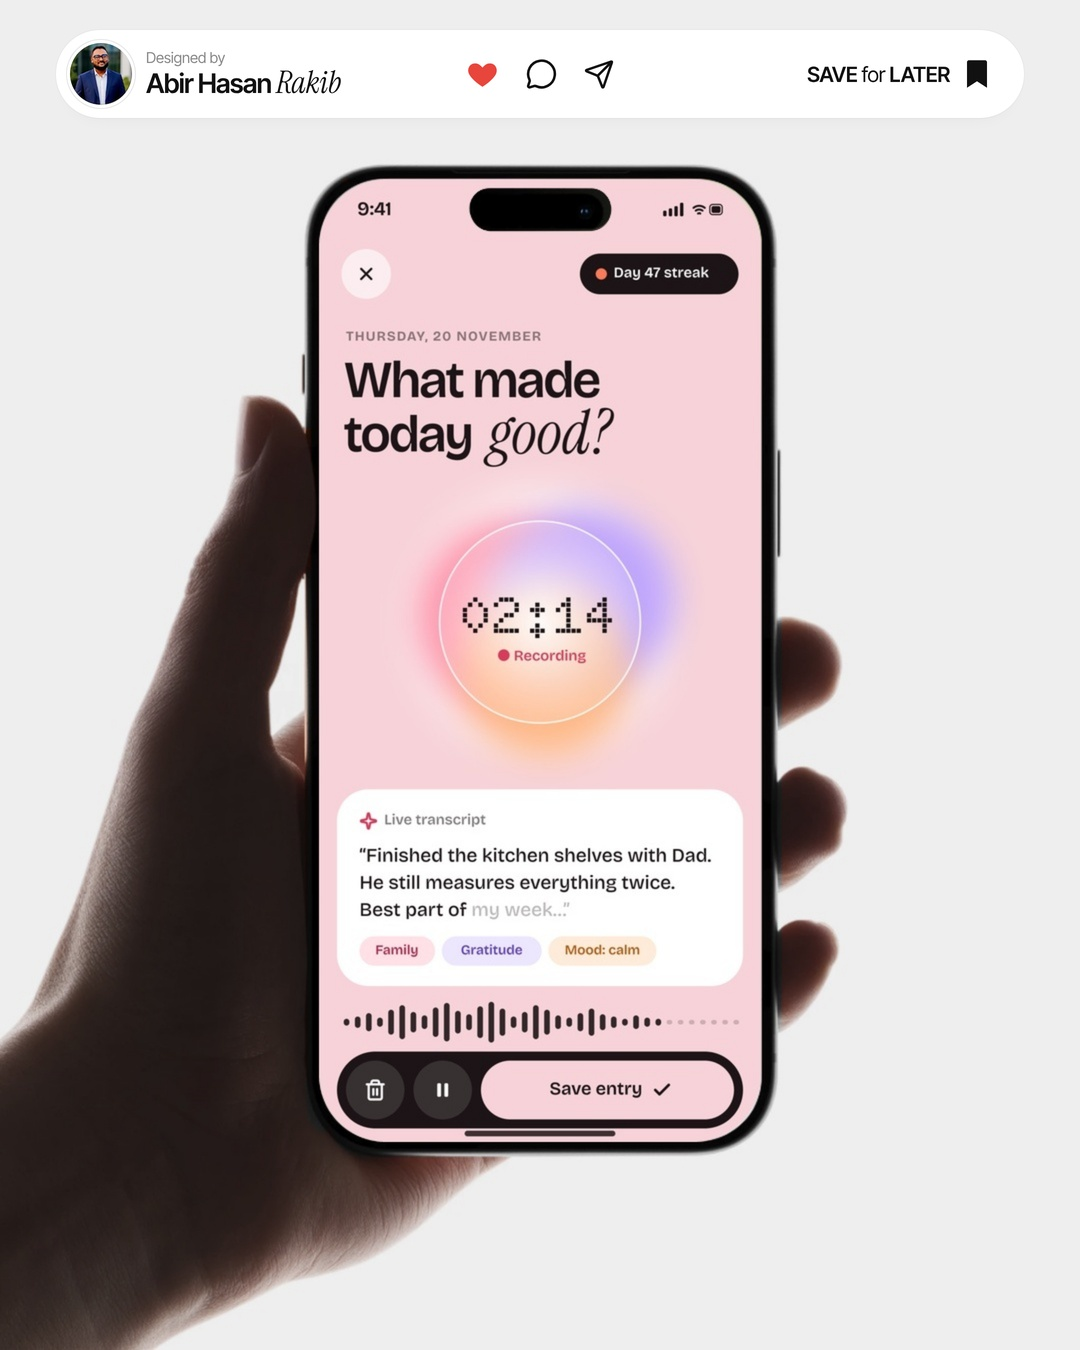
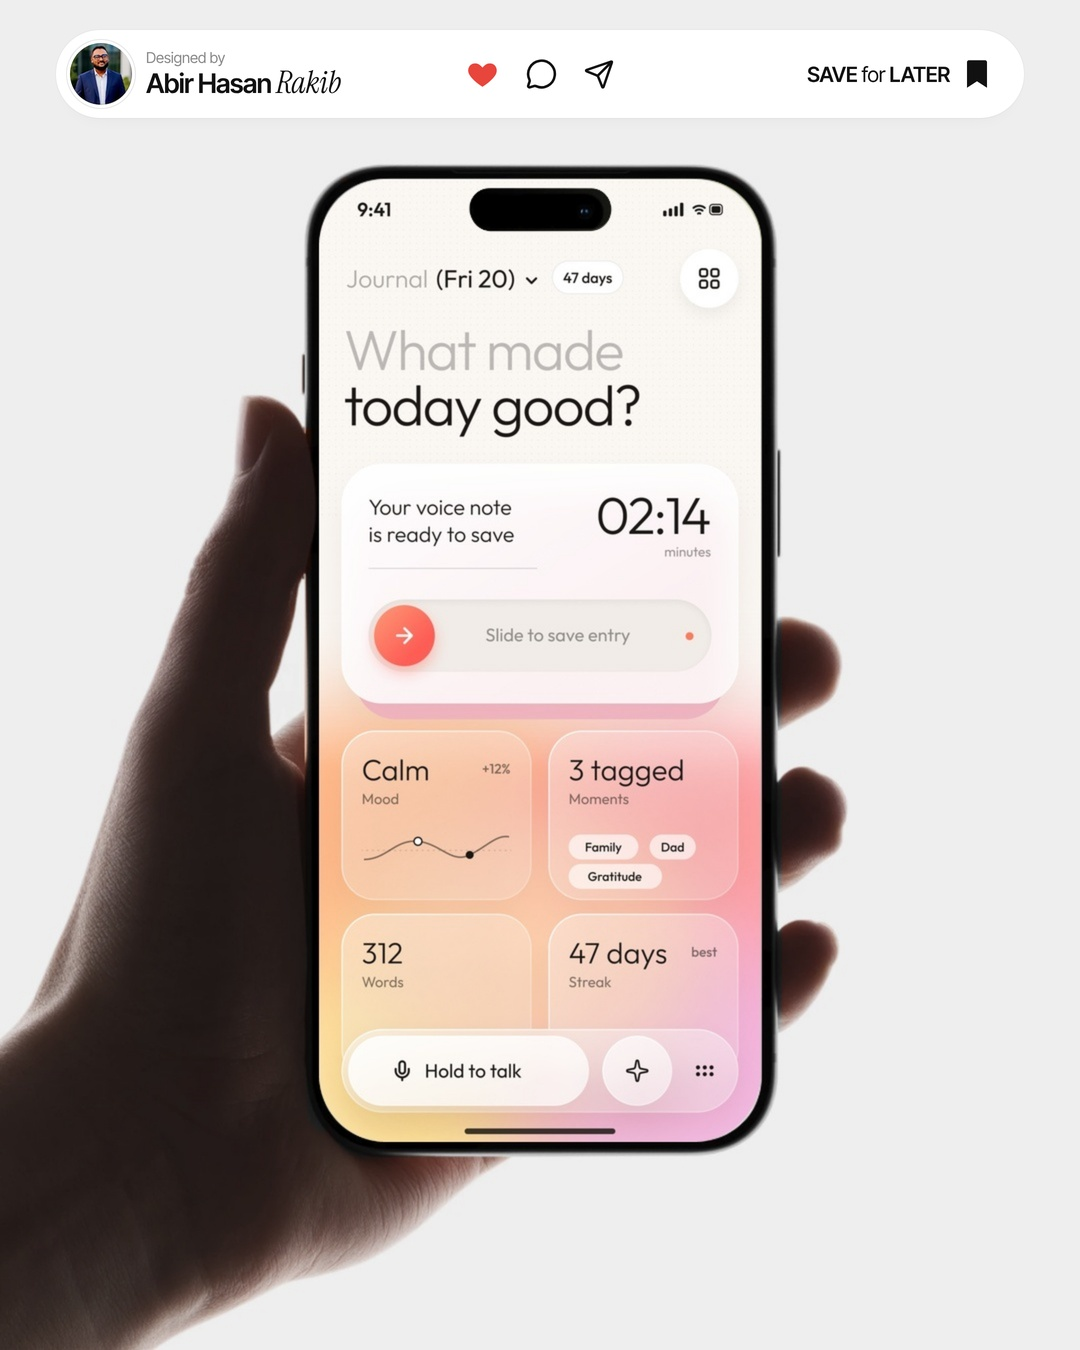
Redesign the 4 app posts in Figma to match the owner's viral references (glass, mesh gradients, photo-led, thin type)
Claude-Session: https://claude.ai/code/session_01Rx7d117qpa9L3825gPP6m3

Changed region(s): [[0.275, 0.1244, 0.7028, 0.8711]]

diff --git a/designs/2026-11-21-pm-hush-sleep-app/screen.html b/designs/2026-11-21-pm-hush-sleep-app/screen.html
@@ -2,13 +2,13 @@
 <html><head><meta charset="utf-8">
 <!-- Designed in Figma (file IVWMA2qO8U4XdLphCuds1y), exported at 3x. -->
 <meta name="app-name" content="Hush">
-<meta name="app-desc" content="A wind-down app that plays a **guided breathing session** over a calm photo, with a **dot-matrix timer** you can read with sleepy eyes.">
-<meta name="fonts" content="Urbanist|Soft, rounded geometry that feels calm at bedtime and still reads clearly at small sizes.">
-<meta name="palette" content="#2E2140:Night plum|#ECE2F7:Lavender haze|#FCE4D6:Peach glow|#FFFFFF:Glass white|#5A4678:Dusk violet|#F0E2F0:Blush mist">
+<meta name="app-desc" content="A sleep app that guides you **one breath at a time**, with soft glass over a **calm colour mesh** and your weekly sleep scores up top.">
+<meta name="fonts" content="Geist|Tight, confident letterforms that make one big word (Exhale) the whole screen.">
+<meta name="palette" content="#1E2236:Night ink|#A9E3E8:Aqua mist|#B9B4F5:Periwinkle|#FFD3BE:Peach|#FFF1A6:Butter|#E7ECF7:Cloud">
 <link rel="stylesheet" href="../../assets/fonts.css">
 <style>*{margin:0;padding:0}html,body{width:393px;height:852px;overflow:hidden;background:#fff}
 .screen{position:absolute;inset:0;width:393px;height:852px}.screen img{width:393px;height:852px;display:block}
-[data-nav]{position:absolute;left:46.5px;top:770px;width:300px;height:66px}</style></head>
+[data-nav]{position:absolute;left:40px;top:710px;width:313px;height:80px}</style></head>
 <body><div class="screen"><img src="figma.png" alt=""></div>
 <img data-nav src="nav.png" alt="" style="visibility:hidden">
 </body></html>

diff --git a/designs/2026-11-26-am-haven-smart-home-app/screen.html b/designs/2026-11-26-am-haven-smart-home-app/screen.html
@@ -2,13 +2,13 @@
 <html><head><meta charset="utf-8">
 <!-- Designed in Figma (file IVWMA2qO8U4XdLphCuds1y), exported at 3x. -->
 <meta name="app-name" content="Haven">
-<meta name="app-desc" content="A smart home app that puts **the real device** front and centre, so setting the heat feels like **turning a dial**, not filling a form.">
-<meta name="fonts" content="Onest|Neutral, precise shapes that pair well with hardware and dot-matrix numbers.">
-<meta name="palette" content="#ECEAE6:Stone|#17181A:Graphite|#FF5A1F:Signal orange|#FFFFFF:White|#2A2B2E:Charcoal|#C9CCCF:Brushed silver">
+<meta name="app-desc" content="A smart home app that wraps **a real dial around the real device**, so setting the heat feels like **touching the thermostat**.">
+<meta name="fonts" content="Urbanist|Extra-light numbers read like a premium device display; rounded shapes match the hardware.">
+<meta name="palette" content="#16181B:Graphite|#FF5B1F:Signal orange|#ECEAE7:Stone|#FFFFFF:White|#C9CCD1:Brushed silver|#FF8A5B:Warm glow">
 <link rel="stylesheet" href="../../assets/fonts.css">
 <style>*{margin:0;padding:0}html,body{width:393px;height:852px;overflow:hidden;background:#fff}
 .screen{position:absolute;inset:0;width:393px;height:852px}.screen img{width:393px;height:852px;display:block}
-[data-nav]{position:absolute;left:16px;top:770px;width:361px;height:64px}</style></head>
+[data-nav]{position:absolute;left:31.5px;top:770px;width:330px;height:62px}</style></head>
 <body><div class="screen"><img src="figma.png" alt=""></div>
 <img data-nav src="nav.png" alt="" style="visibility:hidden">
 </body></html>

diff --git a/designs/2026-11-23-am-wander-travel-app/screen.html b/designs/2026-11-23-am-wander-travel-app/screen.html
@@ -2,13 +2,13 @@
 <html><head><meta charset="utf-8">
 <!-- Designed in Figma (file IVWMA2qO8U4XdLphCuds1y), exported at 3x. -->
 <meta name="app-name" content="Wander">
-<meta name="app-desc" content="A travel planner that turns each trip into a **day-by-day route**, with every stop, booking and ticket on **one calm timeline**.">
-<meta name="fonts" content="Sora|Wide, friendly letterforms that stay legible over bright travel photos.">
-<meta name="palette" content="#0B63CE:Ocean blue|#0E2233:Harbour navy|#F4EEE4:Warm sand|#FFFFFF:White|#1F9D6B:Olive green|#6E7C87:Slate">
+<meta name="app-desc" content="A travel planner that shows **the whole trip on one photo**, with friends on the route and **the next stop ready to book**.">
+<meta name="fonts" content="Figtree|Clean, friendly UI text that lets the Instrument Serif headlines carry the travel mood.">
+<meta name="palette" content="#0F1A33:Deep navy|#1F4FD8:Cobalt|#EAF0FF:Sky tint|#FBFBF8:Paper|#DCE6FF:Soft blue|#F1F2F5:Mist grey">
 <link rel="stylesheet" href="../../assets/fonts.css">
 <style>*{margin:0;padding:0}html,body{width:393px;height:852px;overflow:hidden;background:#fff}
 .screen{position:absolute;inset:0;width:393px;height:852px}.screen img{width:393px;height:852px;display:block}
-[data-nav]{position:absolute;left:16px;top:772px;width:361px;height:64px}</style></head>
+[data-nav]{position:absolute;left:16px;top:762px;width:361px;height:70px}</style></head>
 <body><div class="screen"><img src="figma.png" alt=""></div>
 <img data-nav src="nav.png" alt="" style="visibility:hidden">
 </body></html>

diff --git a/designs/2026-11-24-pm-daybook-voice-journal-app/screen.html b/designs/2026-11-24-pm-daybook-voice-journal-app/screen.html
@@ -2,13 +2,13 @@
 <html><head><meta charset="utf-8">
 <!-- Designed in Figma (file IVWMA2qO8U4XdLphCuds1y), exported at 3x. -->
 <meta name="app-name" content="Daybook AI">
-<meta name="app-desc" content="A voice journal where you **just talk about your day** and the AI writes it down, then **tags the moments** that mattered.">
-<meta name="fonts" content="Bricolage Grotesque|Characterful headlines that make a daily question feel personal, not clinical.">
-<meta name="palette" content="#F7D3D9:Rose|#1C1416:Ink|#FF8FA8:Pink glow|#B79BFF:Lilac glow|#FFB37A:Apricot glow|#D93B5C:Record red">
+<meta name="app-desc" content="A voice journal where you **just talk about your day**, then slide to save while the AI **tags your mood and moments**.">
+<meta name="fonts" content="Outfit|Thin geometric type that keeps a daily question light, with two-tone weight for emphasis.">
+<meta name="palette" content="#1A1714:Ink|#FBF8F4:Paper|#FFB98A:Apricot|#FF9A9E:Coral|#FFE39A:Butter|#F4B6E4:Orchid">
 <link rel="stylesheet" href="../../assets/fonts.css">
 <style>*{margin:0;padding:0}html,body{width:393px;height:852px;overflow:hidden;background:#fff}
 .screen{position:absolute;inset:0;width:393px;height:852px}.screen img{width:393px;height:852px;display:block}
-[data-nav]{position:absolute;left:16px;top:772px;width:361px;height:68px}</style></head>
+[data-nav]{position:absolute;left:20px;top:752px;width:353px;height:74px}</style></head>
 <body><div class="screen"><img src="figma.png" alt=""></div>
 <img data-nav src="nav.png" alt="" style="visibility:hidden">
 </body></html>
